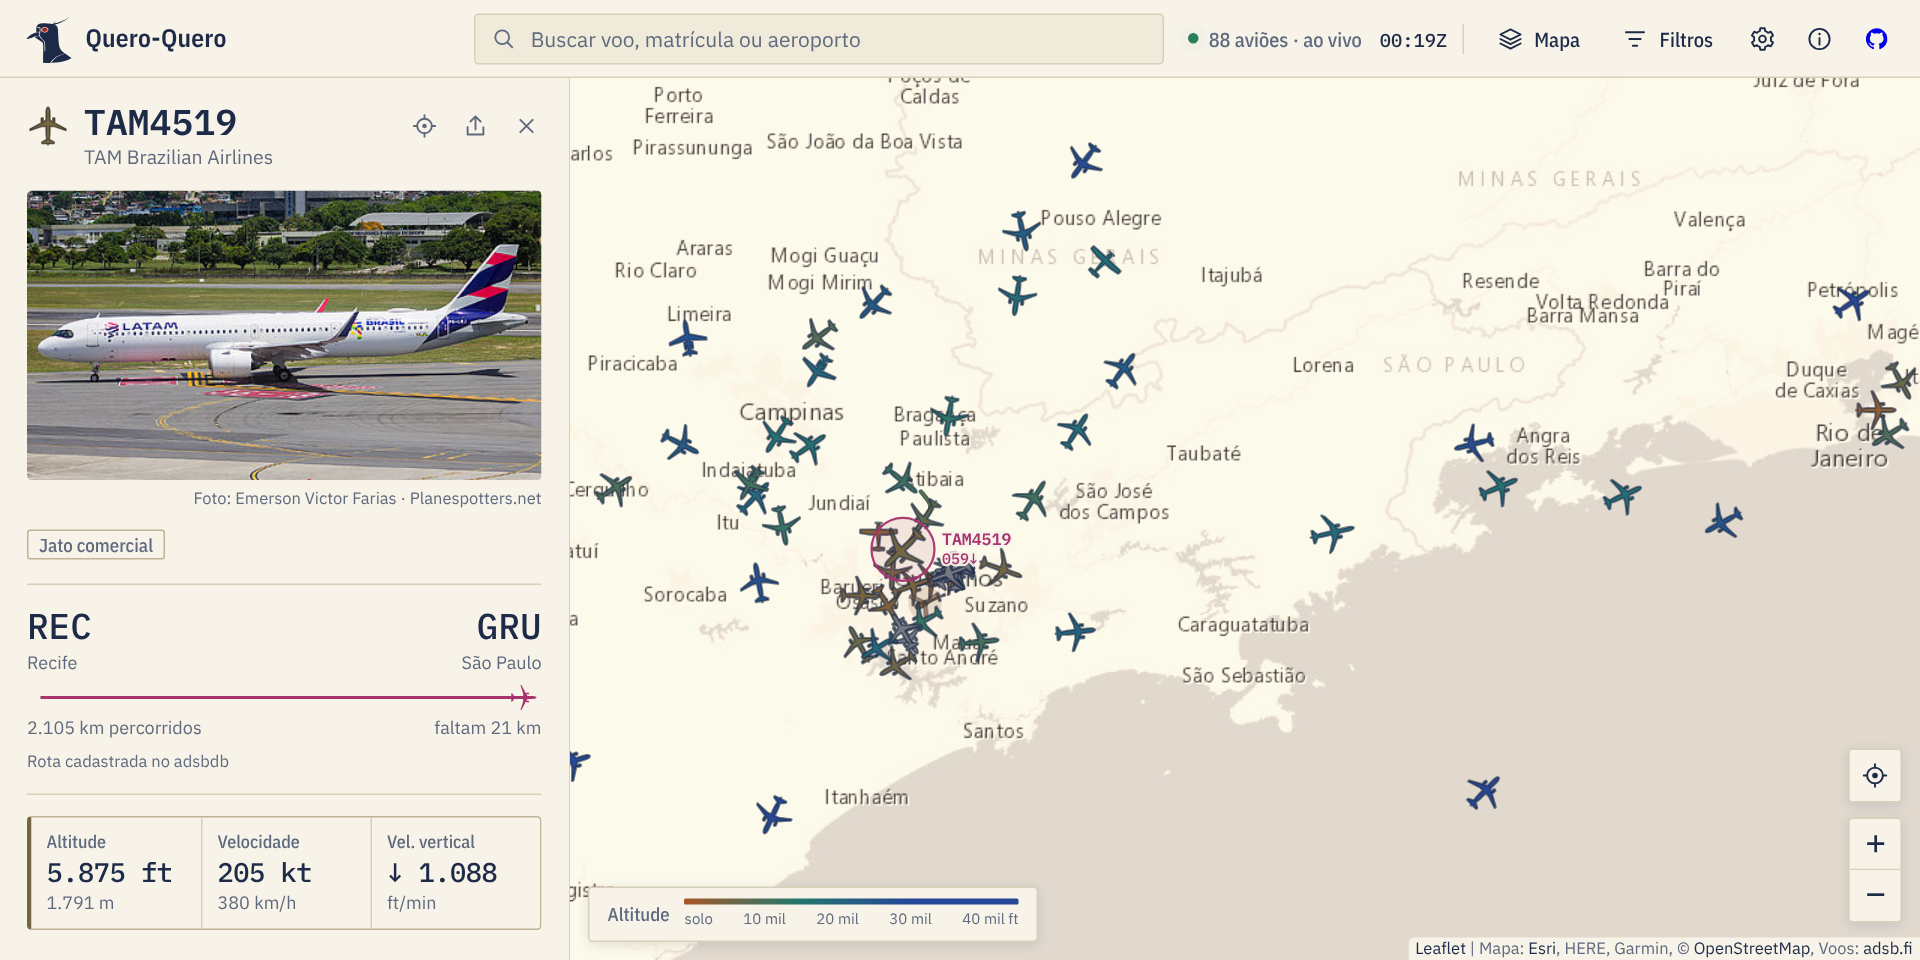
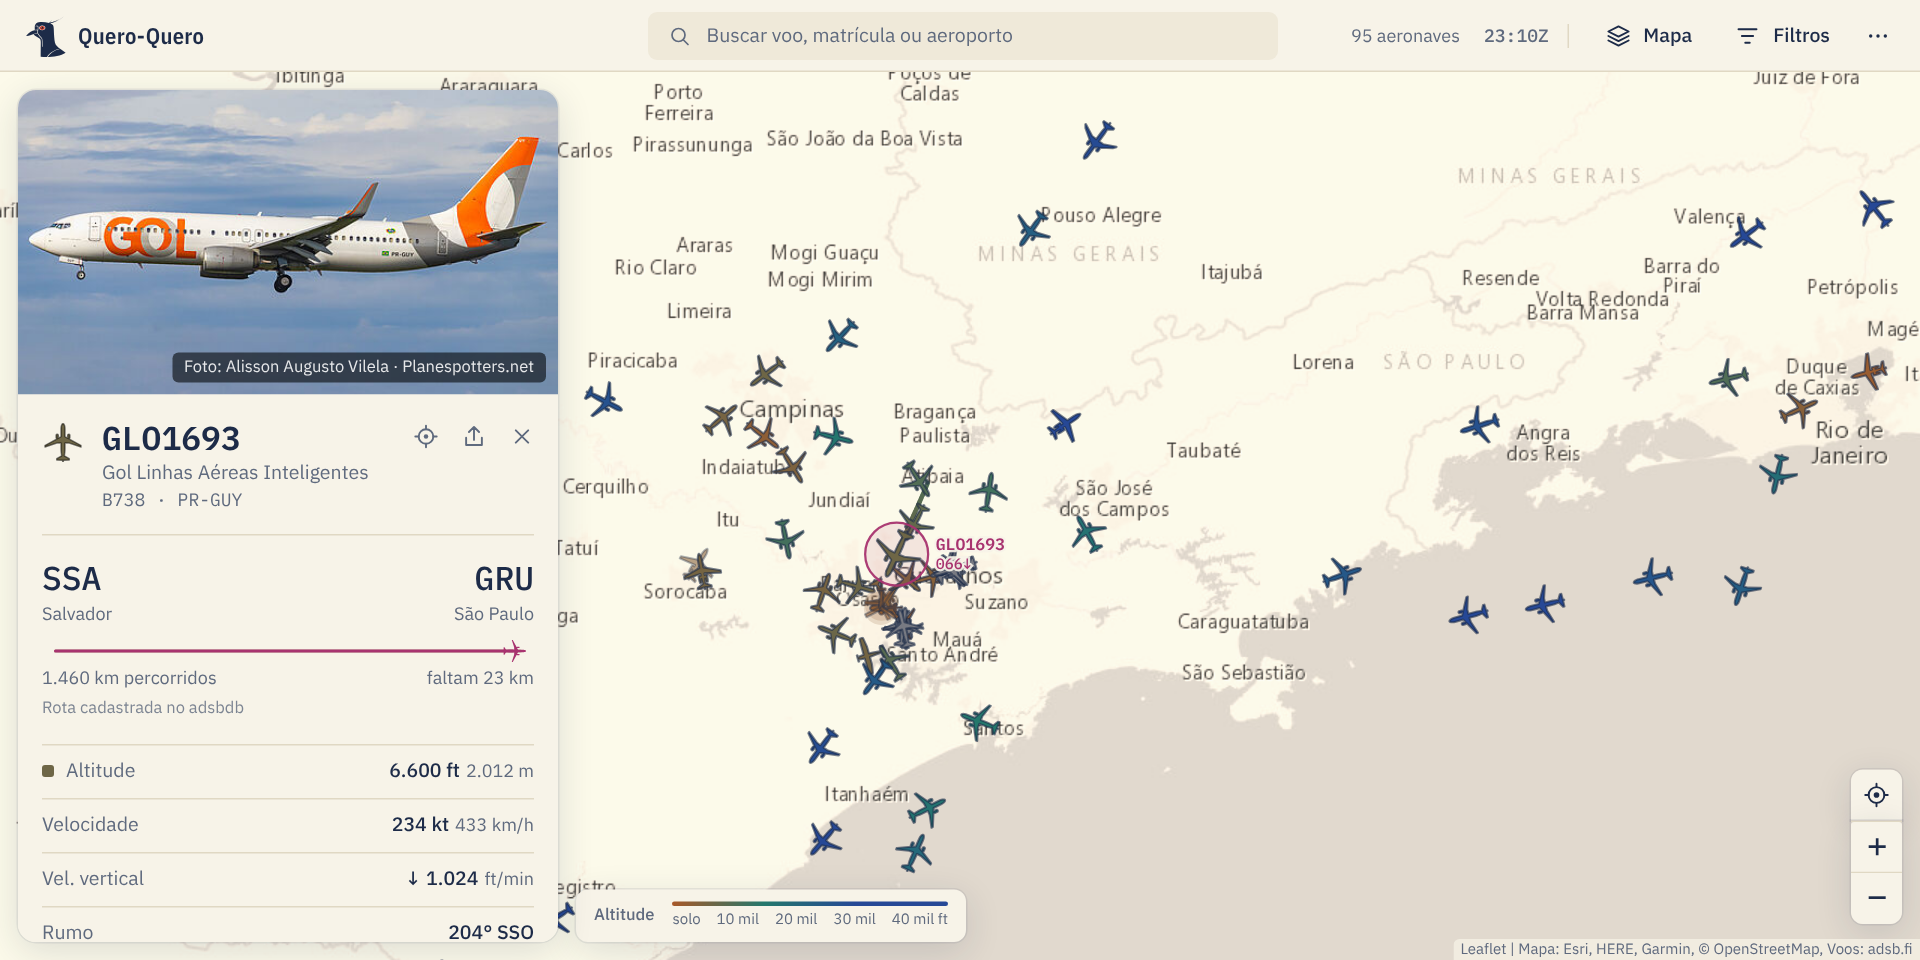
Atualiza os prints, a prévia de link e o README com o cartão flutuante
Claude-Session: https://claude.ai/code/session_01BzwVKo4MjDyfSTkuBQzErr

diff --git a/README.md b/README.md
@@ -10,7 +10,7 @@ Rastreador de voos em tempo real feito com **HTML, CSS e JavaScript puros**: avi
 ![Leaflet](https://img.shields.io/badge/Leaflet-199900?style=for-the-badge&logo=leaflet&logoColor=white)
 ![Cloudflare Workers](https://img.shields.io/badge/Cloudflare_Workers-F38020?style=for-the-badge&logo=cloudflare&logoColor=white)
 
-<img src="assets/preview.png" alt="Mapa escuro de São Paulo com aviões coloridos pela altitude e o painel de um 777 da KLM chegando de Amsterdã, com foto, rota, progresso e rastro" width="760">
+<img src="assets/preview.png" alt="Mapa escuro de São Paulo com aviões coloridos pela altitude e o cartão de um 737 da Gol chegando de Salvador, com foto, rota, progresso e rastro" width="760">
 <br><br>
 
 [![Testar no navegador](https://img.shields.io/badge/▶_Testar_no_navegador-0B0F14?style=for-the-badge)](https://erickfuzer.github.io/QueroQuero/)
@@ -24,12 +24,12 @@ Rastreador de voos em tempo real feito com **HTML, CSS e JavaScript puros**: avi
 - **Ícone por tipo de aeronave**, com silhuetas desenhadas para o projeto: jato comercial, grande porte, quadrimotor, regional turboélice, executivo, aviação leve, helicópteros, planador, drone e balão. O caça tem a silhueta do **F-39 Gripen** e o transporte militar a do **KC-390**, em homenagem à aviação brasileira; **militares** ganham um contorno de destaque
 - Cor pela altitude, com legenda, e o **rastro** do voo selecionado colorido trecho a trecho
 - **Cinco mapas:** escuro, claro, satélite, relevo e ruas, independentes do tema da interface
-- **Camadas:** radar de chuva das últimas 2 horas (com animação), aeroportos, sombra de dia e noite e rastro de todos os aviões
+- **Camadas:** radar de chuva das últimas 2 horas (com animação), aeroportos, sombra de dia e noite e rastro de todas as aeronaves
 
-**No painel do voo**
-- Indicativo, companhia, tipo, altitude, velocidade, velocidade vertical, rumo, squawk (com alerta de emergência), posição, matrícula, modelo, código ICAO e país de registro
+**No cartão do voo**
+- Cartão flutuante sobre o mapa com indicativo, companhia, modelo, altitude, velocidade, velocidade vertical, rumo, squawk (com alerta de emergência), posição, matrícula, modelo, código ICAO e país de registro
 - **Foto da aeronave**, do Planespotters.net, com o crédito do fotógrafo
-- **Rota com progresso:** origem, destino, quanto já foi voado e quanto falta, só quando a rota cadastrada confere com a posição do avião; se não confere, o painel diz isso em vez de inventar
+- **Rota com progresso:** origem, destino, quanto já foi voado e quanto falta, só quando a rota cadastrada confere com a posição do avião; se não confere, o cartão diz isso em vez de inventar
 - **Seguir**, para o mapa acompanhar o avião, e **compartilhar**, com um link que abre o mapa já no voo
 
 **Aeroportos**
@@ -38,23 +38,23 @@ Rastreador de voos em tempo real feito com **HTML, CSS e JavaScript puros**: avi
 **Na barra**
 - **Busca** por indicativo, matrícula, código ICAO ou aeroporto, com atalho <kbd>/</kbd>
 - **Filtros** por tipo, companhia, situação (no ar ou em solo) e altitude, com atalhos para só militares, só helicópteros e emergências
-- **Preferências:** tema claro ou escuro (segue o sistema por padrão), pés ou metros, nós ou km/h e nomes dos voos no mapa, lembradas pelo navegador
-- **Relógio UTC (Zulu)**, o horário usado na aviação, e a situação da conexão ao vivo
+- **Preferências** (no menu ⋯, junto com o Sobre): tema claro ou escuro (segue o sistema por padrão), pés ou metros, nós ou km/h e nomes dos voos no mapa, lembradas pelo navegador
+- **Relógio UTC (Zulu)**, o horário usado na aviação, e a contagem de aeronaves na área, que muda de cor quando os dados atrasam ou a conexão cai
 
 **No dia a dia**
 - Abre na sua localização (com permissão) ou sobre São Paulo
 - Busca só a área visível e pausa quando a aba fica oculta; com o mapa afastado demais, mostra até onde as fontes alcançam
 - Avisos claros quando o limite gratuito estoura ou a fonte falha, com nova tentativa automática
-- **Celular:** o painel vira uma folha inferior que se arrasta para cima para ver tudo
+- **Celular:** o cartão vira uma folha inferior que se arrasta para cima para ver tudo
 
 <details>
 <summary>Ver no satélite, no tema claro e no celular</summary>
 <br>
-<img src="assets/preview-satelite.png" alt="Mapa de satélite de São Paulo com radar de chuva, aeroportos e o painel de Guarulhos com os voos chegando e saindo" width="760">
+<img src="assets/preview-satelite.png" alt="Mapa de satélite de São Paulo com radar de chuva, aeroportos e o cartão de Guarulhos com os voos chegando e saindo" width="760">
 <br><br>
-<img src="assets/preview-claro.png" alt="O mesmo voo no tema claro, com o painel aberto" width="760">
+<img src="assets/preview-claro.png" alt="O mesmo voo no tema claro, com o cartão aberto" width="760">
 <br><br>
-<img src="assets/preview-mobile.png" alt="Versão mobile com o painel do voo como folha inferior compacta e o avião selecionado acima dela" width="260">
+<img src="assets/preview-mobile.png" alt="Versão mobile com o cartão do voo como folha inferior compacta e o avião selecionado acima dela" width="260">
 </details>
 
 ## Como funciona
